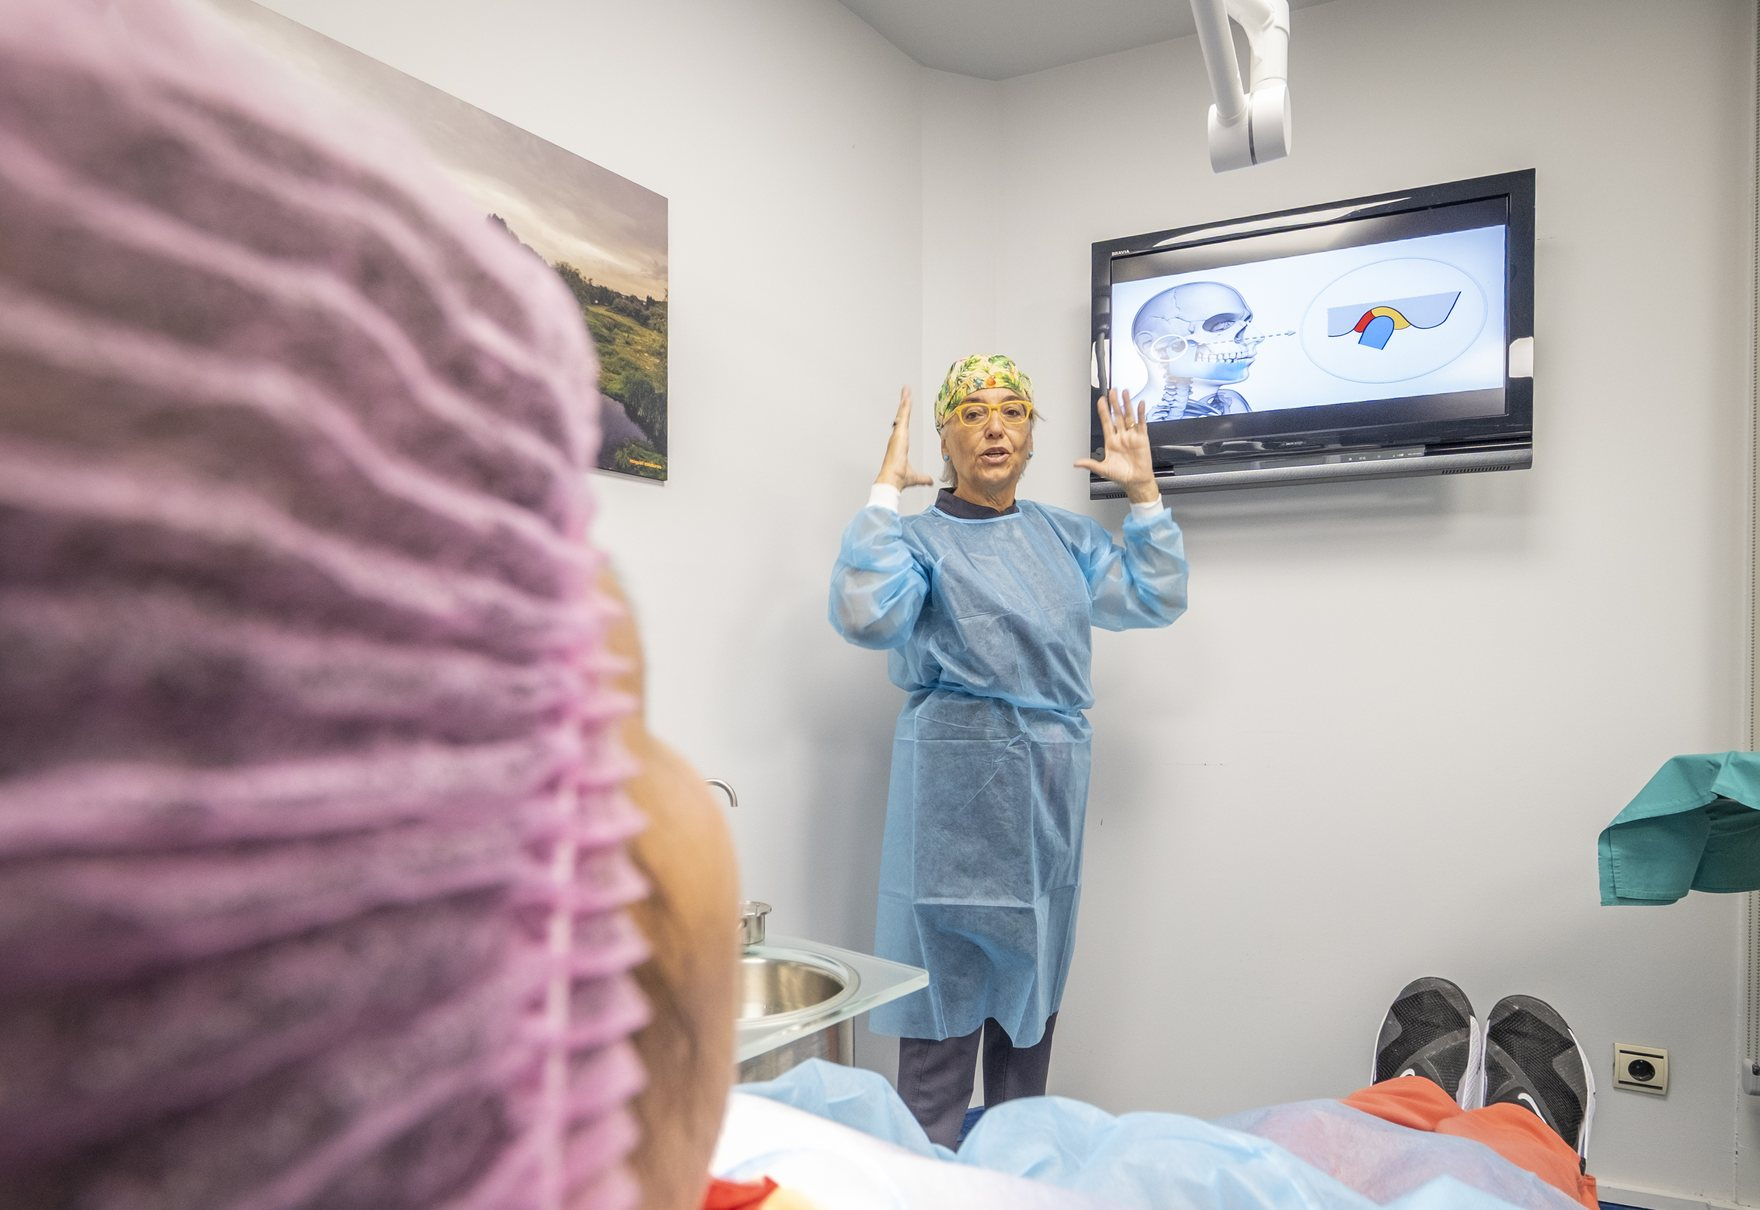
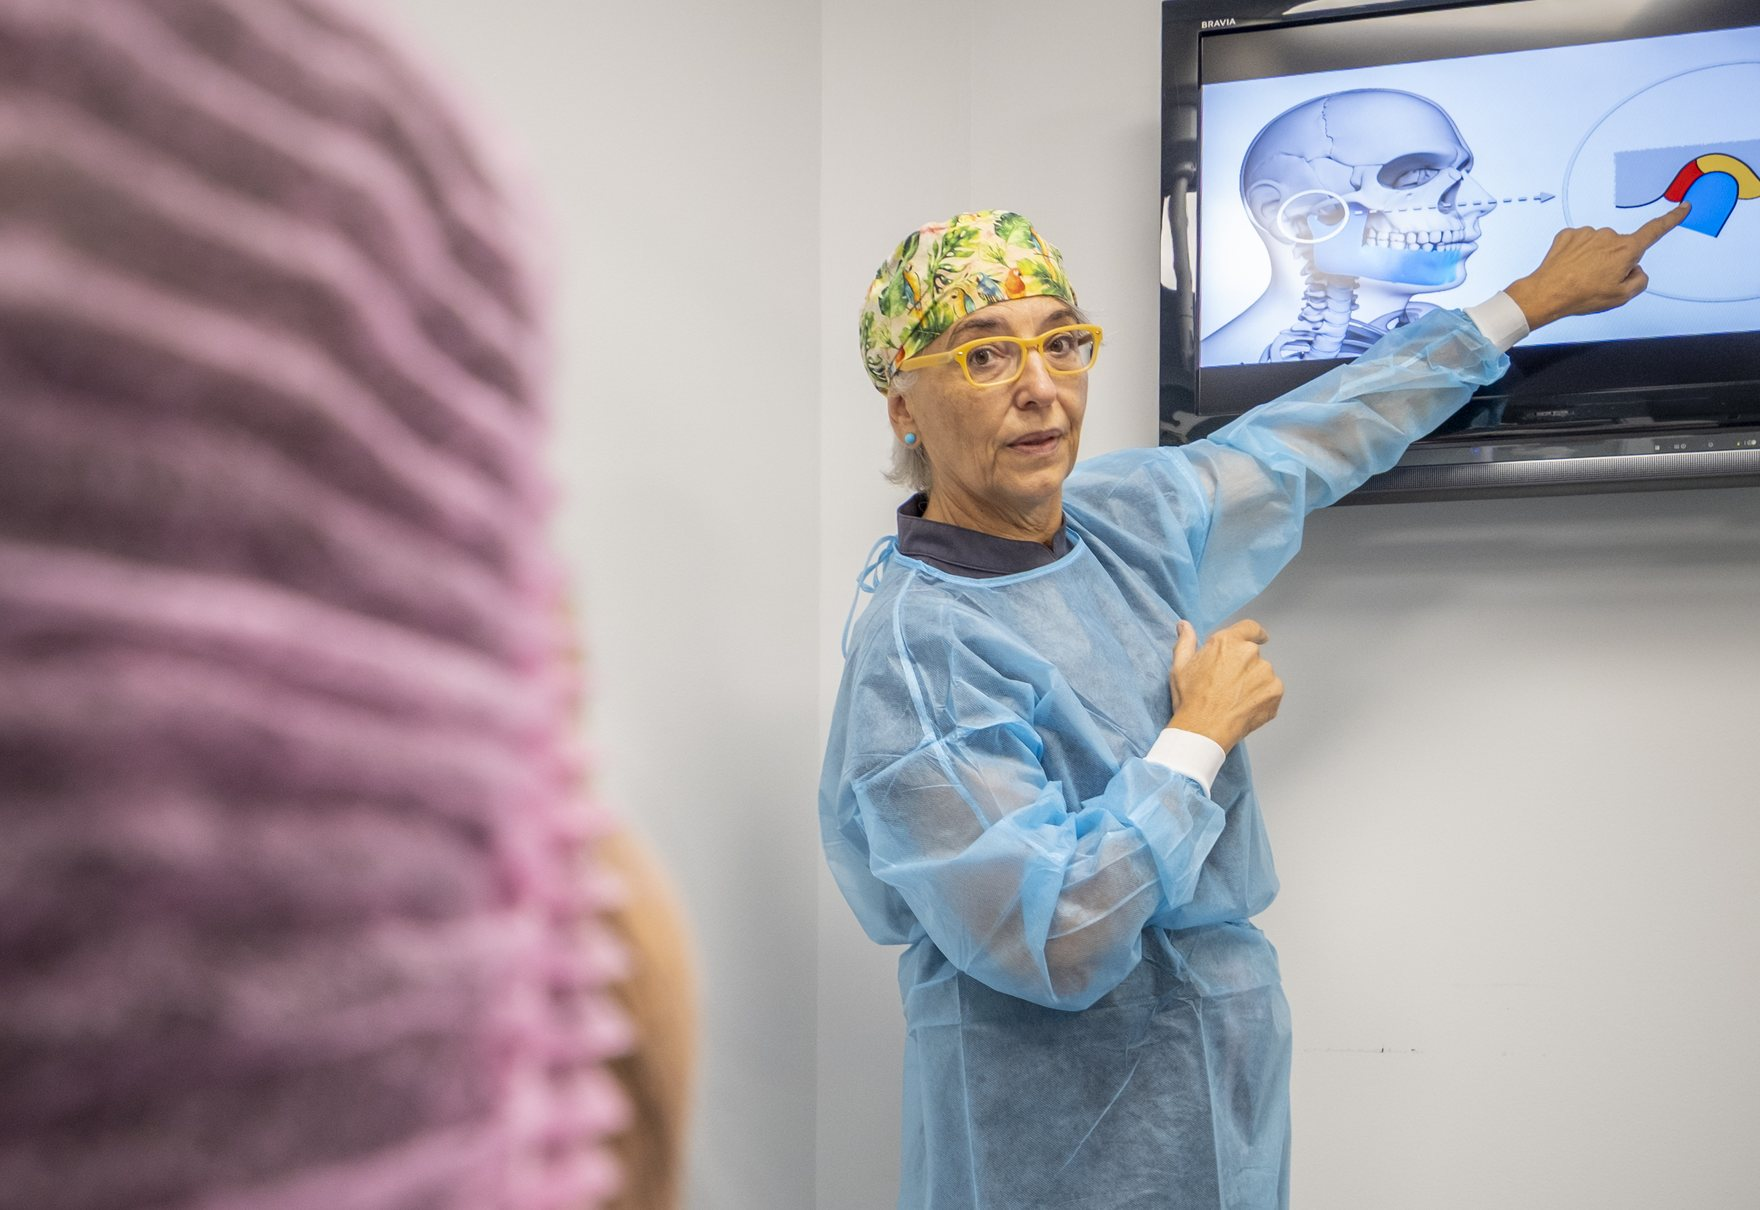
Home ATM tile: distinct Carme photo; move Lleida gallery inside its section
- The home featured ATM tile no longer reuses the services ATM photo:
  it now shows Dra. Carme Roure pointing at the TMJ diagram on screen
  (a different moment than the services shot, where she gestures with
  both hands). Both are her explaining the joint; the tile is distinct.
- The clinic gallery is now a block INSIDE the Lleida section (below its
  address/map, separated by a hairline on the shared off-white ground),
  instead of a standalone section floating between Lleida and Tremp —
  the photos are all from the Lleida clinic, so it belongs to Lleida
  (ca and es).

diff --git a/assets/css/main.css b/assets/css/main.css
@@ -1630,9 +1630,15 @@ section[id] { scroll-margin-top: 96px; }
 .seu-divider { height:1px; background:var(--beix-xlight); margin:0; }
 
 /* ============================================================
-   CLINIC GALLERY (seus) — editorial masonry of real clinic photos
+   CLINIC GALLERY (seus) — editorial masonry, a block WITHIN the Lleida
+   section (the photos are all from the Lleida clinic). Separated from the
+   address/map above by a hairline, sharing the section's off-white ground.
    ============================================================ */
-.clinic-gallery { padding:clamp(70px,9vw,120px) 0; background:var(--cream); }
+.clinic-gallery__block {
+  margin-top:clamp(48px,7vw,90px);
+  padding-top:clamp(40px,5vw,64px);
+  border-top:1px solid var(--beix-xlight);
+}
 .clinic-gallery__head { max-width:640px; margin-bottom:clamp(36px,5vw,56px); }
 .clinic-gallery__head .label { display:inline-block; }
 .clinic-gallery__head h2 {

diff --git a/es/sedes.html b/es/sedes.html
@@ -274,12 +274,7 @@
             </div>
           </div>
         </div>
-      </div>
-    </section>
-
-    <!-- CLINIC GALLERY -->
-    <section class="clinic-gallery" aria-label="Galería de la clínica">
-      <div class="container">
+        <div class="clinic-gallery__block reveal">
         <header class="clinic-gallery__head reveal">
           <span class="label">El espacio</span>
           <h2>Una clínica dentro de un <em>edificio modernista</em></h2>
@@ -310,6 +305,7 @@
           <figure>
             <picture><source srcset="../assets/img/seus/g8-equip.webp" type="image/webp" /><img src="../assets/img/seus/g8-equip.jpg" alt="Sala de escáner y radiología digital de la clínica" loading="lazy" decoding="async" /></picture>
           </figure>
+        </div>
         </div>
       </div>
     </section>

diff --git a/seus.html b/seus.html
@@ -274,12 +274,7 @@
             </div>
           </div>
         </div>
-      </div>
-    </section>
-
-    <!-- CLINIC GALLERY -->
-    <section class="clinic-gallery" aria-label="Galeria de la clínica">
-      <div class="container">
+        <div class="clinic-gallery__block reveal">
         <header class="clinic-gallery__head reveal">
           <span class="label">L'espai</span>
           <h2>Una clínica dins d'un <em>edifici modernista</em></h2>
@@ -310,6 +305,7 @@
           <figure>
             <picture><source srcset="assets/img/seus/g8-equip.webp" type="image/webp" /><img src="assets/img/seus/g8-equip.jpg" alt="Sala d'escàner i radiologia digital de la clínica" loading="lazy" decoding="async" /></picture>
           </figure>
+        </div>
         </div>
       </div>
     </section>
